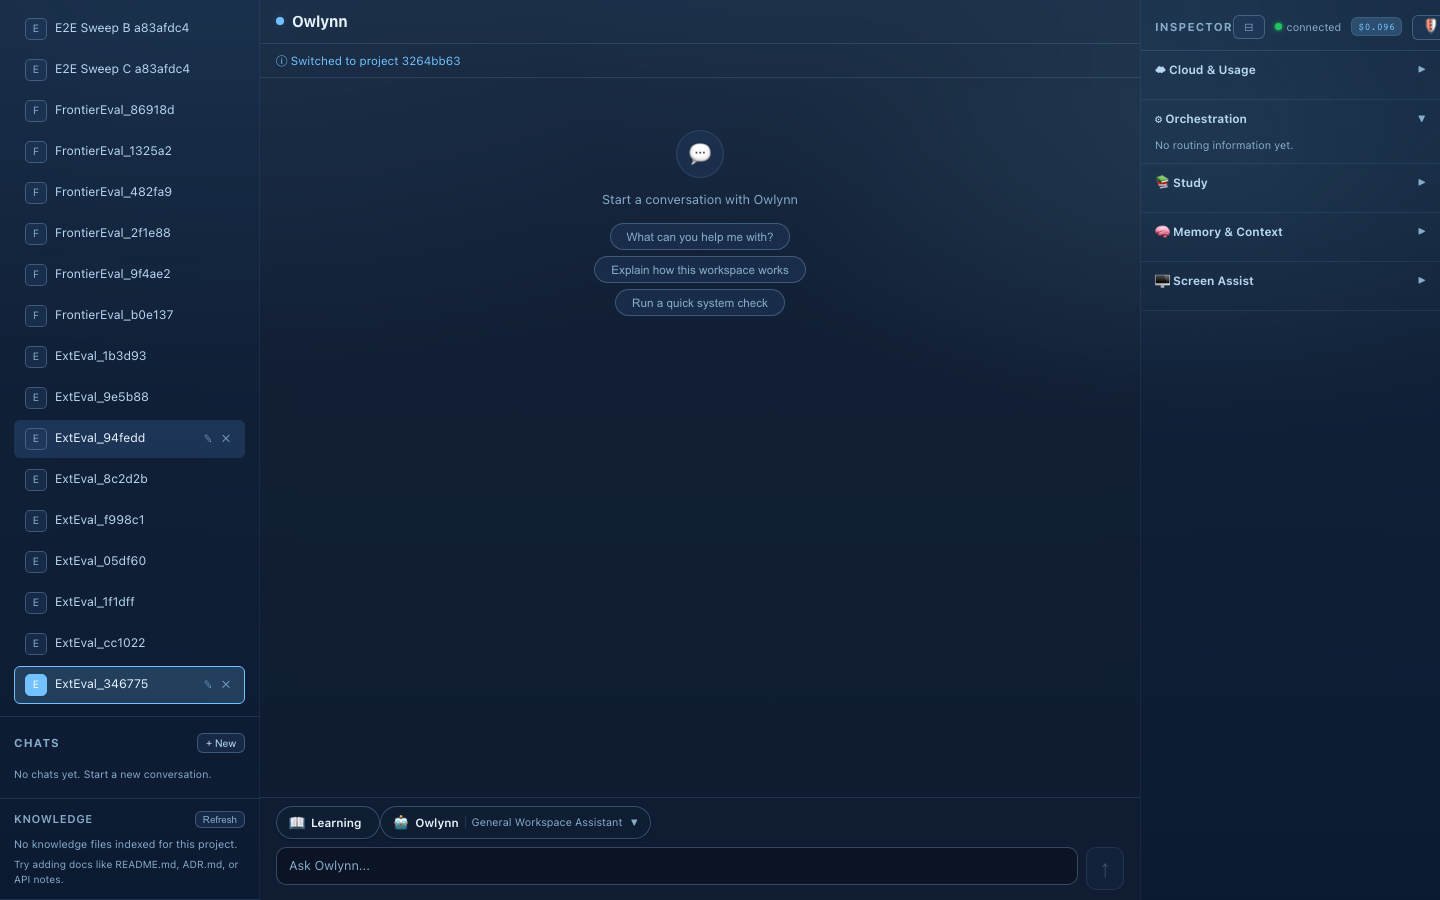
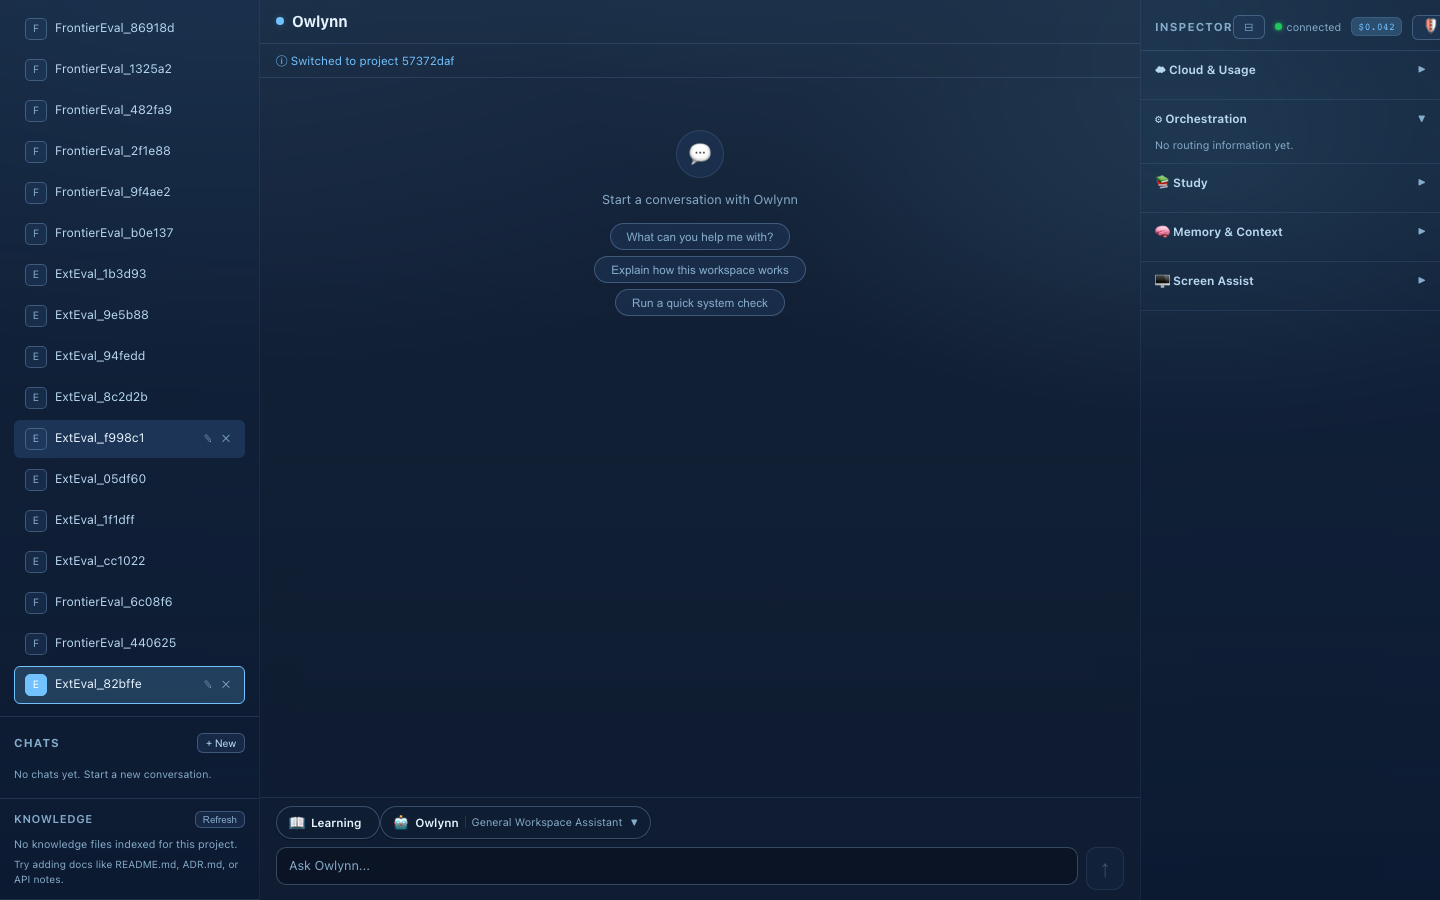
Implement DOM extraction and secure nanobrowser architecture

diff --git a/browser-extension/buildDomTree.js b/browser-extension/buildDomTree.js
@@ -1,0 +1,80 @@
+/**
+ * Owlynn Bridge Extension - DOM Distillation
+ * Inspired by browser-use. Builds a token-efficient representation of the page
+ * and maintains a map of interactive elements for reliable execution.
+ */
+
+(function() {
+    // Reset the map on every extraction
+    window.__owlynn_dom_map = new Map();
+    let elementIndex = 0;
+    
+    function isVisible(el) {
+        if (!el || !el.getBoundingClientRect) return false;
+        const rect = el.getBoundingClientRect();
+        if (rect.width === 0 || rect.height === 0) return false;
+        
+        const style = window.getComputedStyle(el);
+        if (style.display === 'none' || style.visibility === 'hidden' || style.opacity === '0') return false;
+        
+        return true;
+    }
+    
+    function isInteractive(el) {
+        const tagName = el.tagName.toLowerCase();
+        const interactiveTags = ['a', 'button', 'input', 'select', 'textarea'];
+        if (interactiveTags.includes(tagName)) return true;
+        
+        if (el.hasAttribute('onclick')) return true;
+        if (el.getAttribute('role') === 'button' || el.getAttribute('role') === 'link') return true;
+        
+        // Content editable
+        if (el.getAttribute('contenteditable') === 'true') return true;
+        
+        return false;
+    }
+    
+    function extractText(el) {
+        // Simple text extraction for the label
+        let text = el.innerText || el.value || el.getAttribute('placeholder') || el.getAttribute('aria-label') || '';
+        return text.trim().replace(/\n/g, ' ').substring(0, 50);
+    }
+    
+    function traverse(node, depth = 0) {
+        if (!node) return '';
+        if (node.nodeType === Node.TEXT_NODE) return ''; // We handle text inside elements
+        if (node.nodeType !== Node.ELEMENT_NODE) return '';
+        
+        if (!isVisible(node)) return '';
+        
+        const tagName = node.tagName.toLowerCase();
+        if (['script', 'style', 'noscript', 'svg', 'canvas', 'video', 'audio'].includes(tagName)) return '';
+        
+        let output = '';
+        
+        if (isInteractive(node)) {
+            const currentId = elementIndex++;
+            window.__owlynn_dom_map.set(currentId, node);
+            
+            const label = extractText(node);
+            const type = tagName;
+            
+            output += `[@${currentId}] ${type}: ${label ? '"' + label + '"' : 'unlabeled'}\n`;
+        }
+        
+        // Traverse children
+        for (let i = 0; i < node.childNodes.length; i++) {
+            output += traverse(node.childNodes[i], depth + 1);
+        }
+        
+        return output;
+    }
+    
+    const pageTitle = document.title;
+    const pageUrl = window.location.href;
+    
+    let result = `# Page: ${pageTitle}\n# URL: ${pageUrl}\n\n## Interactive Elements:\n`;
+    result += traverse(document.body);
+    
+    return result;
+})();

diff --git a/browser-extension/content_interact.js b/browser-extension/content_interact.js
@@ -2,7 +2,7 @@
   const args = window.__owlynn_interact_args;
   if (!args) return { success: false, error: "No arguments provided." };
 
-  const { action, selector, text, y } = args;
+  const { action, selector, text, y, element_id } = args;
 
   try {
     if (action === "scroll") {
@@ -10,10 +10,17 @@
       return { success: true };
     }
 
-    if (!selector) return { success: false, error: "Selector is required for action: " + action };
+    let els = [];
+    if (element_id !== undefined && element_id !== -1 && window.__owlynn_dom_map) {
+      const el = window.__owlynn_dom_map.get(element_id);
+      if (el) els = [el];
+      else return { success: false, error: "Element ID " + element_id + " not found in DOM map." };
+    } else {
+      if (!selector) return { success: false, error: "Selector or element_id is required for action: " + action };
+      els = Array.from(document.querySelectorAll(selector));
+    }
     
-    const els = document.querySelectorAll(selector);
-    if (els.length === 0) return { success: false, error: "Element not found: " + selector };
+    if (els.length === 0) return { success: false, error: "Element not found" };
 
     if (action === "get_html") {
       const htmls = Array.from(els).map(el => el.outerHTML);

diff --git a/browser-extension/background.js b/browser-extension/background.js
@@ -176,6 +176,17 @@ async function handleBrowserActionRequest(requestId, payload) {
     const tab = await getActiveTab();
     if (!tab) throw new Error("No active tab.");
     
+    if (payload.action === "read_dom_tree") {
+      const [{ result }] = await chrome.scripting.executeScript({
+        target: { tabId: tab.id },
+        files: ["buildDomTree.js"]
+      });
+      if (socket && socket.readyState === WebSocket.OPEN) {
+        socket.send(JSON.stringify({ id: requestId, result: { success: true, dom_tree: result } }));
+      }
+      return;
+    }
+    
     if (payload.action === "show_hints") {
       const [{ result }] = await chrome.scripting.executeScript({
         target: { tabId: tab.id },

diff --git a/src/tools/screen_assist/tools.py b/src/tools/screen_assist/tools.py
@@ -77,15 +77,16 @@ async def get_active_browser_screenshot() -> str:
 
 @tool
 async def active_browser_action(
-    action: str, selector: str = "", text: str = "", y: int = 0
+    action: str, selector: str = "", text: str = "", y: int = 0, element_id: int = -1
 ) -> str:
     """
     Perform an action in the user's active browser tab (Brave/Chrome extension only).
 
     Supported actions:
+    - 'read_dom_tree': Returns a distilled map of interactive elements with unique IDs (e.g., [@12]). Use this FIRST.
+    - 'click': Click element matching 'selector' OR 'element_id'. If using the DOM tree map, provide the element_id (e.g., 12).
+    - 'type': Type 'text' into input matching 'selector' OR 'element_id'.
     - 'show_hints': Draws numbered overlays over all clickable elements. Returns the total count. Call this BEFORE taking a screenshot to see numbers!
-    - 'click': Click element(s) matching 'selector'. You can use a comma-separated list of selectors to click multiple elements simultaneously (e.g., 'input[value="1"], input[value="4"]'). WARNING: Do NOT use Playwright pseudo-selectors like ':has-text()'. Use standard CSS only!
-    - 'type': Type 'text' into input element(s) matching 'selector'. Also supports batching via comma-separated selectors.
     - 'get_html': Returns the raw outerHTML of all elements matching 'selector'. Use this to read the DOM structure (like radio button values) before clicking.
     - 'scroll': Scroll the page down by 'y' pixels.
     - 'go_back': Navigate back in browser history.
@@ -102,10 +103,14 @@ async def active_browser_action(
         if not is_extension_connected():
             return "Error: Browser extension is not connected."
 
-        res = await dispatch_extension_browser_action(action, selector, text, y)
+        res = await dispatch_extension_browser_action(
+            action, selector, text, y, element_id
+        )
         if res.get("success"):
             extras = {k: v for k, v in res.items() if k != "success"}
             if extras:
+                if "dom_tree" in extras and len(extras) == 1:
+                    return f"Action '{action}' executed successfully.\nDOM Tree:\n{extras['dom_tree']}"
                 import json
 
                 return f"Action '{action}' executed successfully.\nResult:\n{json.dumps(extras, indent=2)}"

diff --git a/src/agent/nodes/complex.py b/src/agent/nodes/complex.py
@@ -311,7 +311,7 @@ You are equipped with powerful tools that override your standard AI limitations.
 - **Browser Bridge Tools** (when user asks about their active browser tab, page, or screen):
   - `get_active_browser_context` — get the URL, title, and full page text of the user's active browser tab. Call this when the user explicitly asks "what page am I on?", "what's in my browser?", or "what have I highlighted?". DO NOT call this if the user is just asking you to click, type, or fetch URLs.
   - `get_active_browser_screenshot` — capture a screenshot of the user's active browser tab. Call this when the user asks to "see my screen", "look at my browser", or "take a screenshot".
-  - `active_browser_action` — perform click/type/scroll in the user's browser. Call this directly when the user asks you to interact with, click, or type in their browser.
+  - `active_browser_action` — perform click/type/scroll in the user's browser. Call this directly when the user asks you to interact with, click, or type in their browser. IMPORTANT: ALWAYS use `action="read_dom_tree"` FIRST to get a distilled map of interactive elements and their unique integer IDs (e.g., `[@12]`). Then, use those integer IDs as `element_id` for your click and type actions.
   - `browser_background_fetch` — fetch multiple URLs via the user's browser (bypasses bot protections). Use for bulk URL reading or when `fetch_webpage` fails."""
     + _TOOL_CALL_DISCIPLINE
 )

diff --git a/src/api/routes/browser_extension.py b/src/api/routes/browser_extension.py
@@ -141,10 +141,16 @@ async def dispatch_extension_capture_screenshot() -> str | None:
 
 
 async def dispatch_extension_browser_action(
-    action: str, selector: str = "", text: str = "", y: int = 0
+    action: str, selector: str = "", text: str = "", y: int = 0, element_id: int = -1
 ) -> dict:
     """Execute a DOM interaction (click, type, scroll) on the active tab."""
-    payload = {"action": action, "selector": selector, "text": text, "y": y}
+    payload = {
+        "action": action,
+        "selector": selector,
+        "text": text,
+        "y": y,
+        "element_id": element_id,
+    }
     data = await dispatch_extension_request("browser_action", {"payload": payload})
     if "error" in data:
         return {"success": False, "error": data["error"]}

diff --git a/docs/evaluations/extension-eval-2026-06-21.md b/docs/evaluations/extension-eval-2026-06-21.md
@@ -1,0 +1,162 @@
+# Extension Eval — 2026-06-21
+
+**Overall: 1010/1300 (77.7%) — PASS**
+
+- Profile: `cloud`
+- Mock mode: `True`
+- Vision available: `False`
+
+## Per-Track Results
+
+| Track | Score | % | Status |
+|-------|-------|---|--------|
+| Track 1 — Active Tab Context | 205/300 | 68.3% | ⚠ Marginal |
+| Track 3 — Interactive DOM | 225/300 | 75.0% | ✅ Pass |
+| Track 4 — Background Scraping | 105/200 | 52.5% | ❌ Fail |
+| Track 5 — Moodle Extraction | 300/300 | 100.0% | ✅ Pass |
+| Track 6 — Connection Lifecycle | 175/200 | 87.5% | ✅ Pass |
+
+## Turn Details
+
+### [EX1.1] Tab Context Retrieval — ✅ 100/100
+- Tools: `['get_active_browser_context']`
+- Route: `complex-cloud`
+- Duration: 12.8s
+- Breakdown:
+  - +40: Tool 'get_active_browser_context' called correctly
+  - +20: Response non-empty (253 chars ≥ 20)
+  - +25: Marker 'EVAL_TAB_MARKER_7' found in response
+  - +10: No DSML leak
+  - +5: Clean response
+
+### [EX1.2] Selected Text Awareness — ✅ 100/100
+- Tools: `['get_active_browser_context']`
+- Route: `complex-cloud`
+- Duration: 18.7s
+- Breakdown:
+  - +40: Tool 'get_active_browser_context' called correctly
+  - +20: Response non-empty (496 chars ≥ 20)
+  - +25: Marker 'EVAL_SELECTION_MARKER' found in response
+  - +10: No DSML leak
+  - +5: Clean response
+
+### [EX1.3] Graceful Fallback (no extension) — ❌ 5/100
+- Tools: `[]`
+- Route: `complex-cloud`
+- Duration: 57.5s
+- Breakdown:
+  - -20: Expected tool 'get_active_browser_context' not called (got: [])
+  - +20: Response non-empty (369 chars ≥ 10)
+  - +10: No DSML leak
+  - +5: Graceful response (no crash)
+  - -10: Premature complete (tool stall)
+
+### [EX2.1] Screenshot Capture — ⏭ SKIPPED (vision_unavailable)
+
+### [EX2.2] Screenshot on Demand — ⏭ SKIPPED (vision_unavailable)
+
+### [EX3.1] Click Element — ✅ 75/100
+- Tools: `['get_active_browser_context', 'active_browser_action']`
+- Route: `complex-cloud`
+- Duration: 14.9s
+- Breakdown:
+  - +40: Tool 'active_browser_action' called correctly
+  - +20: Response non-empty (79 chars ≥ 10)
+  - +10: No DSML leak
+  - +5: Clean response
+
+### [EX3.2] Type into Field — ✅ 75/100
+- Tools: `['get_active_browser_context', 'active_browser_action']`
+- Route: `complex-cloud`
+- Duration: 14.8s
+- Breakdown:
+  - +40: Tool 'active_browser_action' called correctly
+  - +20: Response non-empty (88 chars ≥ 10)
+  - +10: No DSML leak
+  - +5: Clean response
+
+### [EX3.3] Scroll Page — ✅ 75/100
+- Tools: `['active_browser_action']`
+- Route: `complex-cloud`
+- Duration: 13.8s
+- Breakdown:
+  - +40: Tool 'active_browser_action' called correctly
+  - +20: Response non-empty (147 chars ≥ 8)
+  - +10: No DSML leak
+  - +5: Clean response
+
+### [EX4.1] Multi-URL Fetch — ❌ 30/100
+- Tools: `[]`
+- Route: `complex-cloud`
+- Duration: 32.0s
+- Breakdown:
+  - -20: Expected tool 'browser_background_fetch' not called (got: [])
+  - +20: Response non-empty (755 chars ≥ 30)
+  - +25: Marker 'EVAL_FETCH_MARKER_1' found in response
+  - +10: No DSML leak
+  - +5: Clean response
+  - -10: Premature complete (tool stall)
+
+### [EX4.2] Error Handling — ✅ 75/100
+- Tools: `['browser_background_fetch', 'fetch_webpage']`
+- Route: `complex-cloud`
+- Duration: 13.9s
+- Breakdown:
+  - +40: Tool 'browser_background_fetch' called correctly
+  - +20: Response non-empty (98 chars ≥ 10)
+  - +10: No DSML leak
+  - +5: Graceful response (no crash)
+
+### [EX5.1] Moodle Assignments — ✅ 100/100
+- Tools: `['get_active_browser_context']`
+- Route: `complex-cloud`
+- Duration: 19.7s
+- Breakdown:
+  - +40: Tool 'get_active_browser_context' called correctly
+  - +20: Response non-empty (568 chars ≥ 20)
+  - +25: Marker 'EVAL_MOODLE_ASSIGNMENT' found in response
+  - +10: No DSML leak
+  - +5: Clean response
+
+### [EX5.2] Moodle Grades — ✅ 100/100
+- Tools: `['get_active_browser_context']`
+- Route: `complex-cloud`
+- Duration: 22.7s
+- Breakdown:
+  - +40: Tool 'get_active_browser_context' called correctly
+  - +20: Response non-empty (540 chars ≥ 15)
+  - +25: Marker 'EVAL_MOODLE_GRADE_88' found in response
+  - +10: No DSML leak
+  - +5: Clean response
+
+### [EX5.3] Non-Moodle Fallback — ✅ 100/100
+- Tools: `['get_active_browser_context']`
+- Route: `complex-cloud`
+- Duration: 19.7s
+- Breakdown:
+  - +40: Tool 'get_active_browser_context' called correctly
+  - +20: Response non-empty (239 chars ≥ 15)
+  - +25: Marker 'EVAL_NONMOODLE_CONTENT' found in response
+  - +10: No DSML leak
+  - +5: Clean response
+
+### [EX6.1] Extension Auto-Connect — ✅ 100/100
+- Tools: `['get_active_browser_context']`
+- Route: `complex-cloud`
+- Duration: 18.8s
+- Breakdown:
+  - +40: Tool 'get_active_browser_context' called correctly
+  - +20: Response non-empty (247 chars ≥ 10)
+  - +25: Marker 'EVAL_TAB_MARKER_7' found in response
+  - +10: No DSML leak
+  - +5: Clean response
+
+### [EX6.3] Graceful Missing Extension (screenshot) — ✅ 75/100
+- Tools: `['get_active_browser_screenshot', 'get_active_browser_context']`
+- Route: `complex-cloud`
+- Duration: 17.4s
+- Breakdown:
+  - +40: Tool 'get_active_browser_screenshot' called correctly
+  - +20: Response non-empty (177 chars ≥ 10)
+  - +10: No DSML leak
+  - +5: Graceful response (no crash)
